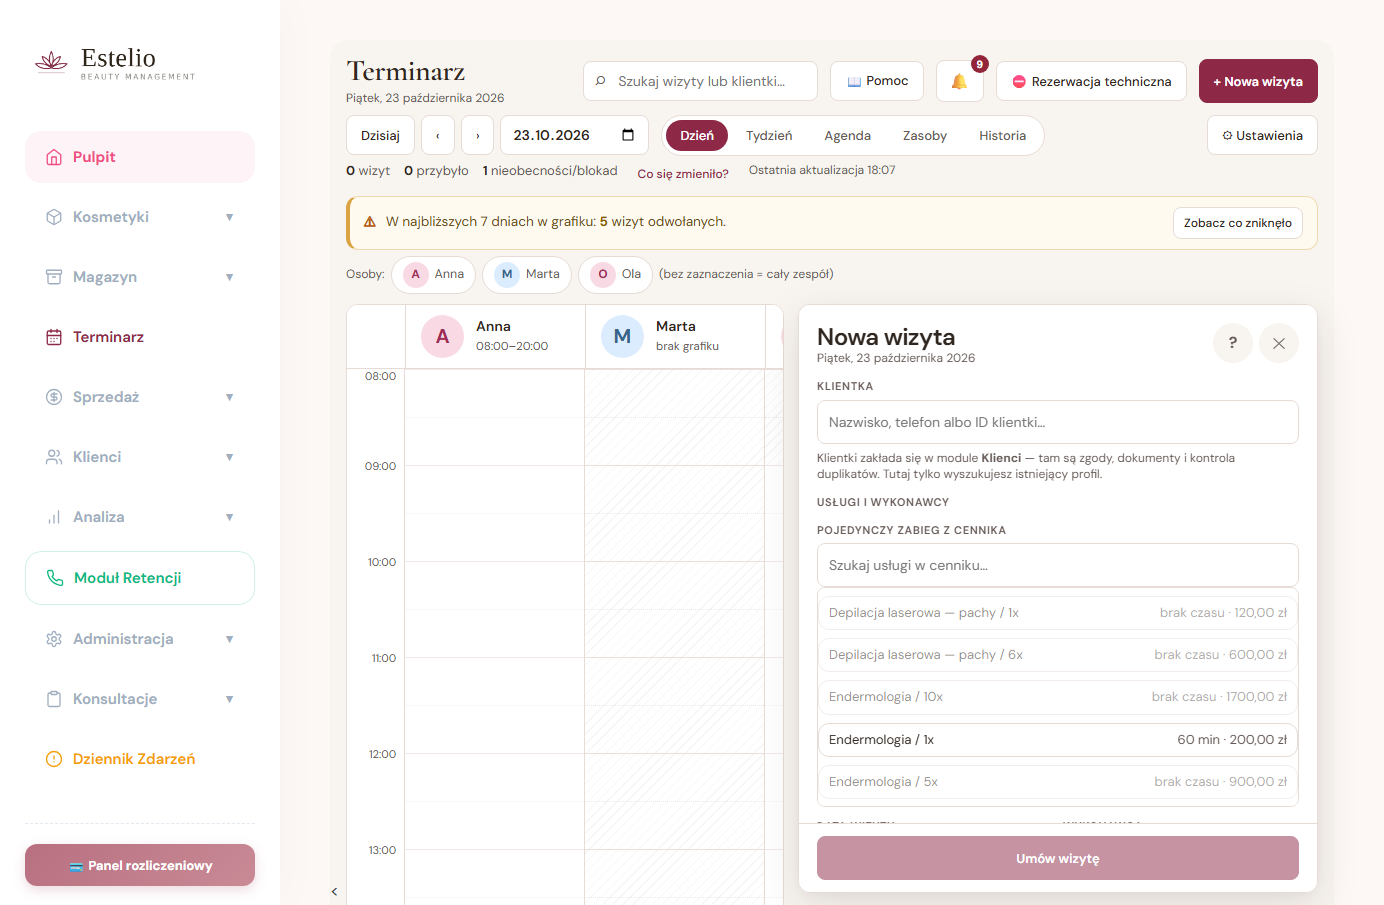
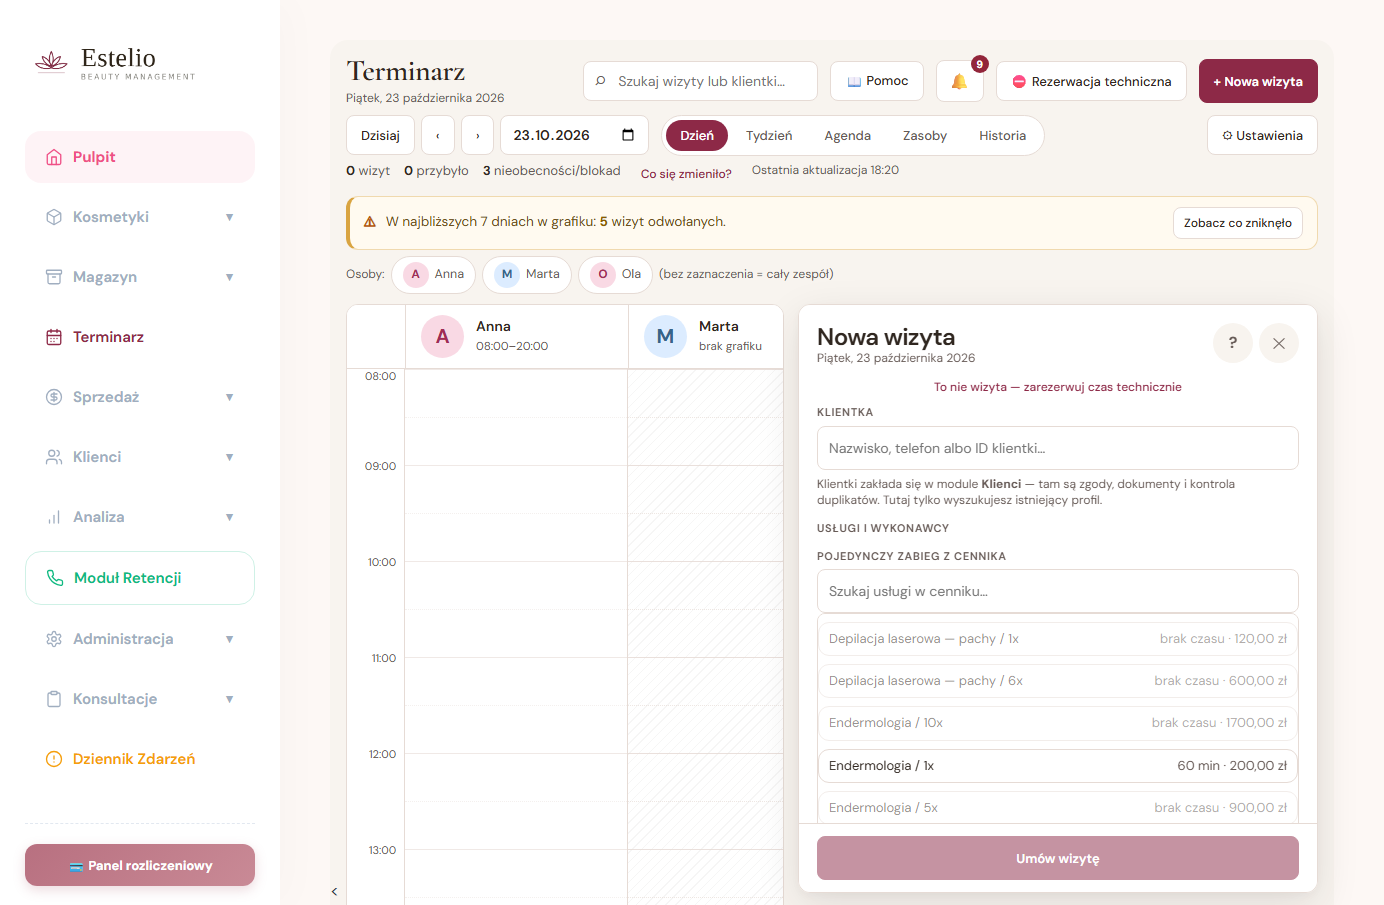
fix(terminarz): rezerwacja techniczna bez skrotu klawiaturowego
User: „ten skrot klawiszowy jest niepotrzebny, tylko utrudnia zrobienie rezerwacji technicznej,
a to normalny element kazdego salonu". Alt/Ctrl + klik usuniete. Zostaje przycisk w naglowku,
a w kreatorze wizyty dochodzi przejscie „To nie wizyta — zarezerwuj czas technicznie" z juz
podstawiona godzina i osoba z klikniętej kolumny. Dwa jawne wejscia zamiast ukrytego gestu.

Proby: tests/terminarz-blokady.test.js (17, w tym kontrola, ze skrotu nie ma), pelny przebieg
653/653; kreator sprawdzony na izolowanej bazie ze zrzutem.

diff --git a/public/terminarz.js b/public/terminarz.js
@@ -431,8 +431,6 @@
     const siatka = (TRM.dane.ustawienia.siatka_min || 15);
     let m = zak.od + Math.floor((ev.clientY - rect.top) / PX); m = Math.floor(m / siatka) * siatka;
     const start = `${TRM.data} ${pad(Math.floor(m / 60))}:${pad(m % 60)}`;
-    // Alt/Ctrl + klik = rezerwacja techniczna zamiast wizyty (ten sam gest, inny zamiar)
-    if (ev.altKey || ev.ctrlKey) return TRM.blokadaNowa({ start, osoba: pracownik });
     TRM.nowaWizyta({ start, pracownik });
   };
 
@@ -1032,7 +1030,10 @@
     return wyniki.map((k, i) => `<button type="button" class="trm-klient-karta" onclick="TRM.nowaKlient(${i})"><b>${esc(k.nazwa)}</b> <span class="m">· ${esc(k.telefon || 'brak tel.')} · ID ${esc(k.id_klienta)}</span>${k.ostrzezenie ? ' <span class="trm-pill warn">⚠</span>' : ''}</button>`).join('');
   }
   function sekcjaKlientHtml(n) {
-    return `<div class="trm-field"><label>Klientka</label>
+    // Przejście „to nie wizyta" bez chowania funkcji pod skrótem klawiaturowym: rezerwacja
+    // techniczna jest normalnym elementem pracy salonu, więc stoi obok, z gotową godziną.
+    return `${n.klient || n.pozycje.length ? '' : `<div class="trm-row" style="justify-content:flex-end;margin:-4px 0 6px"><button class="trm-btn link sm" onclick="TRM.blokadaNowa({ start: '${esc(n.start)}', osoba: '${esc(n.prefPrac || n.domyslny || '')}' })">To nie wizyta — zarezerwuj czas technicznie</button></div>`}
+      <div class="trm-field"><label>Klientka</label>
       ${n.klient ? `<div class="trm-wybrana"><b>${esc(n.klient.nazwa)}</b> <span class="muted small">· ${esc(n.klient.telefon || 'brak telefonu')} · ID ${esc(n.klient.id_klienta)}</span> <button class="trm-btn link sm" onclick="TRM.nowaKlient(null)">zmień</button>${n.klient.ostrzezenie ? `<div class="trm-note warn small">⚠ ${esc(n.klient.ostrzezenie)}</div>` : ''}</div>`
       : `<input id="trm-k-fraza" placeholder="Nazwisko, telefon albo ID klientki…" value="${esc(n.fraza)}" oninput="TRM.nowaSzukaj(this.value)" autocomplete="off">
          <div class="trm-wyniki-klient" id="trm-k-wyniki" ${n.wyniki.length ? '' : 'hidden'}>${klientWynikiHtml(n.wyniki)}</div>

diff --git a/tests/terminarz-blokady.test.js b/tests/terminarz-blokady.test.js
@@ -176,4 +176,9 @@ describe('B04 — dodawanie klientki zniknęło z Terminarza', () => {
     expect(M.AKCJE).toContain('trm_blokada_zapisz');
     expect(M.AKCJE).toContain('trm_blokada_usun');
   });
+  test('rezerwacja techniczna nie chowa się pod skrótem klawiaturowym', () => {
+    expect(src).not.toMatch(/altKey|ctrlKey/);                                   // gest Alt/Ctrl + klik usunięty
+    expect(src).toMatch(/⛔ Rezerwacja techniczna<\/button>/);                   // przycisk w nagłówku
+    expect(src).toMatch(/To nie wizyta — zarezerwuj czas technicznie/);          // przejście z kreatora wizyty
+  });
 });

diff --git a/docs/terminarz-rezerwacja-techniczna/README.md b/docs/terminarz-rezerwacja-techniczna/README.md
@@ -15,7 +15,7 @@ Powód jest praktyczny: kartoteka założona w biegu przy ladzie to profil bez z
 
 Blokady czasu istniały w module od początku (`Term_Nieobecnosci`), ale zakładać je mógł **tylko manager** i **tylko w Ustawieniach → Nieobecności i blokady**, razem z urlopami i chorobami. Recepcja, która patrzy na wolne okno w grafiku, nie miała jak zarezerwować gabinetu.
 
-**Teraz:** przycisk **⛔ Rezerwacja techniczna** obok „+ Nowa wizyta" (role operacyjne), a w siatce **Alt/Ctrl + klik** w wolne miejsce otwiera ten sam panel z podstawioną godziną i osobą z klikniętej kolumny.
+**Teraz:** przycisk **⛔ Rezerwacja techniczna** obok „+ Nowa wizyta" (role operacyjne) oraz przejście **„To nie wizyta — zarezerwuj czas technicznie"** w kreatorze wizyty, z już podstawioną godziną i osobą z klikniętej kolumny. Świadomie bez skrótu klawiaturowego: rezerwacja techniczna to normalny element pracy salonu, a nie funkcja do chowania pod gestem.
 
 W panelu: od–do, powód (szkolenie · rozmowa/spotkanie · serwis, naprawa · inne), osoba (opcjonalnie), gabinet lub urządzenie (opcjonalnie), opis — obowiązkowy, bo zobaczy go cała zmiana. Pod spodem podpowiedź, gdzie rezerwacja będzie widoczna.
 
